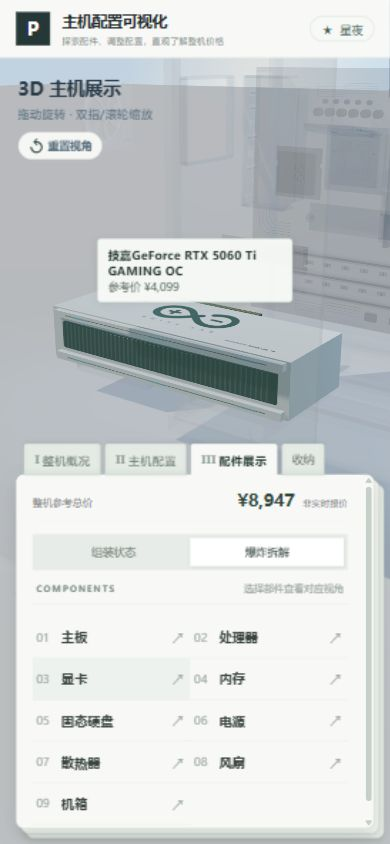
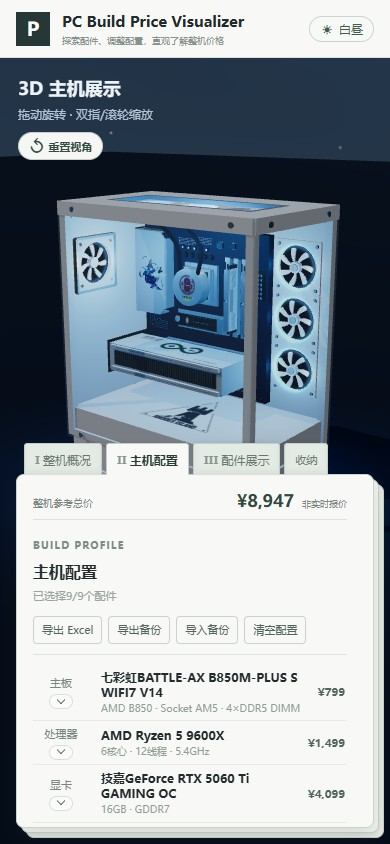
Refresh showcase screenshots and parameter demo

diff --git a/README.md b/README.md
@@ -25,6 +25,12 @@
 
 ![Mobile layout](docs/screenshots/mobile-layout.jpg)
 
+### 配件参数调试与 3D 效果
+
+通过机箱颜色、风扇主体颜色、灯光颜色和灯光亮度控件，可以即时观察参数变化在 3D 主机中的呈现效果；同时支持组装状态与爆炸拆解视图切换。
+
+![Parameter adjustment](docs/screenshots/parameter-adjustment.jpg)
+
 ## 技术栈
 
 - Three.js
